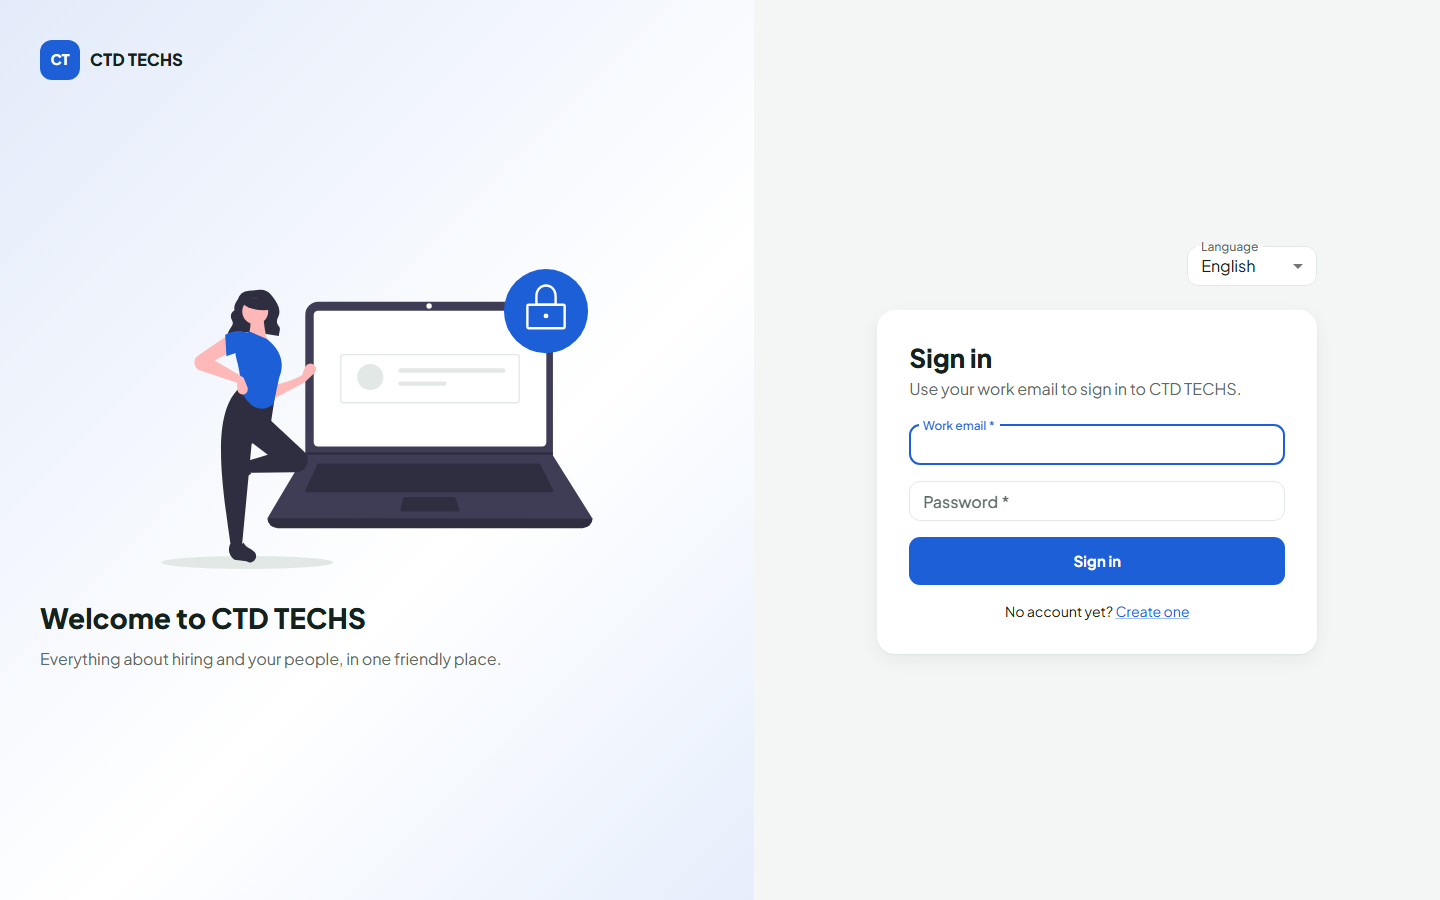
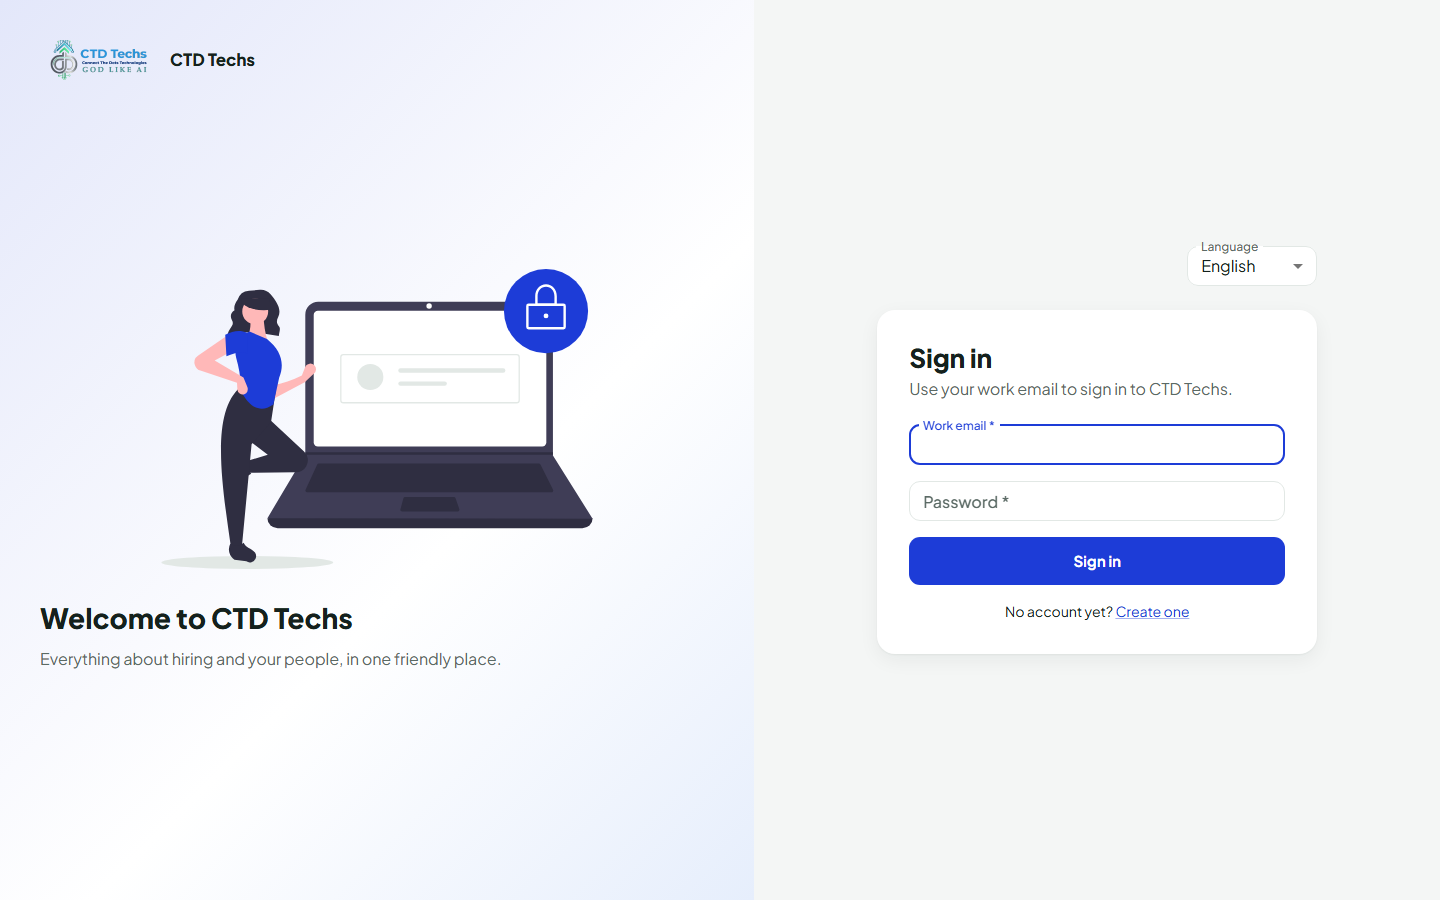
part-17.14: hand-over (checks clean, public screenshots refreshed, FIXES_17 complete)

diff --git a/docs/ui/FIXES_17.md b/docs/ui/FIXES_17.md
@@ -552,3 +552,28 @@ regression            -> home funnel, /candidates, /applications, jobs-health, a
 frontend              -> tsc clean, i18n 0 missing, npm run build OK
 ```
 **Screenshot:** `recycle-bin.png`, `remove-dialog.png` -- **pending login proof**.
+
+## 17.14 Hand-over
+
+**Checks (2026-09-28):**
+```
+npm run build        -> OK (i18n:check + tsc -b + vite build)
+i18n:check           -> OK, 3433 keys, 0 missing (en / hi / ta)
+tsc                  -> clean
+compileall           -> clean (app, hrctl, scripts)
+alembic current      -> e9c2b5f8a1d4 (head)
+```
+
+**Fresh screenshots (public pages, Playwright, `docs/ui/screens/`):**
+- `login.png` (with the company logo)
+- `careers.png`
+- `candidate-status.png` (17.13, Demo candidate: at the interview stage)
+- `salary-details-form.png` (17.8, a Demo candidate's link that has already been answered)
+- `careers-job.png` is not refreshed: no job is published on the careers site right now.
+
+**Signed-in pages are still "pending login proof".** No `backend/.env.verify` was provided, and I don't create passwords or tokens. To take them, run from `frontend/`:
+```
+SHOT_EMAIL=<you> SHOT_PASSWORD=<pw> node scripts/take_screenshots.mjs
+```
+
+**Known issue, not fixed:** the small success-tick animation (FriendlyAnimation "success", Part 15) draws nothing. The Lottie layers stay `display:none`, both with and without reduced motion; you can see it on the salary form's "already answered" card. The text is correct. It predates Part 17.

diff --git a/docs/build_log.md b/docs/build_log.md
@@ -2232,3 +2232,9 @@ NEXT: 17.15 frontend (Remove on profile/list/pipeline, Recycle bin page, DELETE 
 RemoveCandidateDialog (reason list, note, counts summary, typed DELETE, bulk progress), Remove in the profile menu / row menu / board card / bulk bar (permission recruitment.candidate.delete), Candidates > Recycle bin page (Restore / Delete permanently; menu entry only for that permission), duplicate banner on the profile. Decision: the job pipeline counts already open the candidates board filtered by job, so Remove on board cards covers the pipeline without a second copy.
 
 NEXT: 17.14 hand-over (build/i18n/tsc/compileall, screenshots, report).
+
+## Part 17.14 -- hand-over (2026-09-28)
+
+All Part 17 items done (17.1-17.13, 17.15). Build, i18n, tsc, compileall clean; alembic at e9c2b5f8a1d4. Public screenshots refreshed; signed-in screenshots wait for a login (no credentials were provided). Known issue: the Lottie success tick does not draw (Part 15).
+
+NEXT: STOP -- hand-over reported. Then PART16 steps 16.1-16.10 per RESUME.txt when asked.
